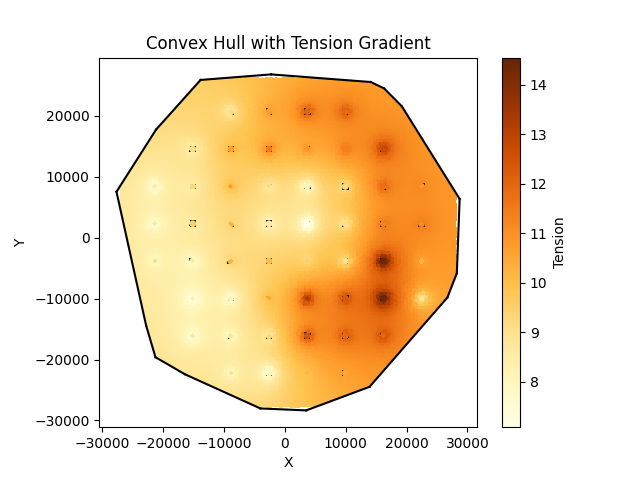
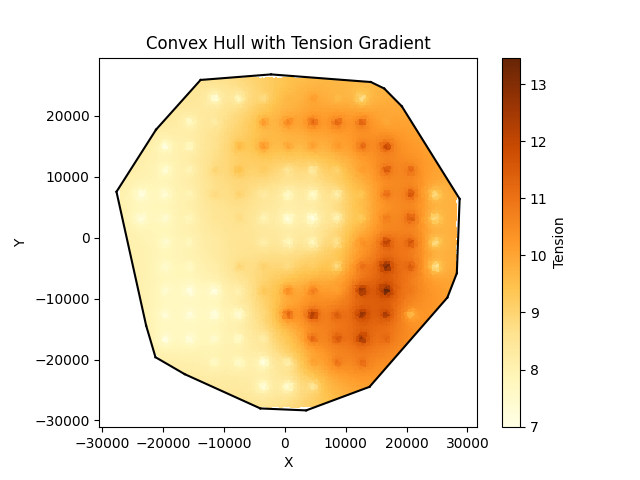
Add code for generating convex hull and tension gradient plot

diff --git a/envlake/tension.py b/envlake/tension.py
@@ -42,8 +42,8 @@ def is_circle_valid(center, radius, delaunay):
     return np.sum(inside_points) >= len(angles)/3  # 大于 1/3 的点在凸包内
 
 # 生成网格点
-grid_x1 = np.linspace(min_x, max_x, 10)
-grid_y1 = np.linspace(min_y, max_y, 10)
+grid_x1 = np.linspace(min_x, max_x, 15)
+grid_y1 = np.linspace(min_y, max_y, 15)
 grid_points = np.array(np.meshgrid(grid_x1, grid_y1)).T.reshape(-1, 2)
 
 # 过滤有效的圆心
@@ -68,7 +68,7 @@ all_centers = valid_centers + boundary_centers[:20]
 
 '''-----遍历圆并测出圆内湖深变化剧烈程度-----'''
 # 加载插值函数
-with open(r'D:\mypython\math_modeling\lake\result\res_func0.pkl', 'rb') as f:
+with open(r'D:\mypython\math_modeling\lake\result\res_func_best.pkl', 'rb') as f:
     interpolator = pickle.load(f)
 
 # 计算每个圆的 tension
@@ -76,9 +76,9 @@ circle_properties =[]
 for center in all_centers:
     # 生成圆上的点
     angles = np.random.uniform(0, 2 * np.pi, 100)
-    # radii = np.sqrt(np.random.uniform(0, 1, 10)) * radius*2
-    circle_points = np.array([center[0] + radius * np.cos(angles),
-                               center[1] + radius * np.sin(angles)]).T
+    radii = np.sqrt(np.random.uniform(0, 1, 100)) * radius
+    circle_points = np.array([center[0] + radii * np.cos(angles),
+                               center[1] + radii * np.sin(angles)]).T
     
     # 过滤在凸包内的点
     valid_points = [point for point in circle_points if delaunay.find_simplex(point) >= 0]
@@ -91,10 +91,10 @@ for center in all_centers:
 tensions = [circle['tension'] for circle in circle_properties]
 print(len(circle_properties))
 # 找出 tenssion 值最大的五个圆的索引
-top_5_indices = np.argsort(tensions)[-5:]
+top_10_indices = np.argsort(tensions)[-10:]
 
 # 打印这些圆的中心坐标和 tenssion 值
-for idx in top_5_indices:
+for idx in reversed(top_10_indices):
     center = circle_properties[idx]['center']
     tension = circle_properties[idx]['tension']
     print(f"Circle {idx}: Center = ({center[0]:.2f},{center[1]:.2f}) Tension = {tension:.2f}")
@@ -114,10 +114,6 @@ points1=np.hstack((x,y))
 # 绘制散点图，使用 tension 值作为颜色映射
 plt.scatter(x, y, c=tensions, cmap='YlOrBr', edgecolor='k')
 
-# 标出 top_5_indices 中的五个圆
-for idx in top_5_indices:
-    plt.scatter(circle_properties[idx]['center'][0], circle_properties[idx]['center'][1], 
-                color='red', edgecolor='black', s=100, label=f'Circle {idx}')
     
 grid_x1, grid_y1 = np.meshgrid(np.linspace(min_x, max_x, 100), np.linspace(min_y, max_y, 100))
 grid_points = np.vstack((grid_x1.ravel(), grid_y1.ravel())).T
@@ -154,6 +150,13 @@ plt.xlabel('X')
 plt.ylabel('Y')
 plt.title('Convex Hull with Tension Gradient')
 plt.gca().set_aspect('equal', adjustable='box')
+
+# 标出 top_10_indices 中的七个圆
+# 注释掉这段代码，即得tension.png,否则得tension with mark.png
+for idx in top_10_indices:
+    circle = plt.Circle((circle_properties[idx]['center'][0], circle_properties[idx]['center'][1]), 
+                        radius=radius, color='red', fill=False, edgecolor='black', linewidth=2)
+    plt.gca().add_patch(circle)
 
 # 显示图形
 plt.show()

diff --git a/envlake/cover.py b/envlake/cover.py
@@ -1,0 +1,92 @@
+import numpy as np
+import matplotlib.pyplot as plt
+from matplotlib.collections import PolyCollection
+from scipy.spatial import ConvexHull , Delaunay
+import pandas as pd
+import pickle
+
+
+data = pd.read_excel('D:\mypython\math_modeling\lake\data1.xlsx')
+
+'''-----构建凸包-----'''
+x = data['x'].values
+y = data['y'].values
+
+x=x.reshape(-1,1)
+y=y.reshape(-1,1)
+
+# 将 x 和 y 合并为一个二维数组
+points = np.hstack((x, y))
+
+# 计算凸包
+hull = ConvexHull(points)
+
+'''-----构造开覆盖-----'''
+# 创建 Delaunay 三角剖分对象
+delaunay = Delaunay(points)
+
+# 计算凸包的边界框
+min_x, min_y = np.min(points, axis=0)
+max_x, max_y = np.max(points, axis=0)
+
+# 圆的半径
+radius = ((max_x-min_x)+(max_y-min_y))/40  # 你可以根据需要调整半径
+
+# 判断圆心是否在凸包内
+def is_circle_valid(center, radius, delaunay):
+    # 生成圆上的点
+    angles = np.linspace(0, 2 * np.pi, 100)
+    circle_points = np.array([center[0] + radius * np.cos(angles), center[1] + radius * np.sin(angles)]).T
+    # 判断圆上的点是否在凸包内
+    inside_points = delaunay.find_simplex(circle_points) >= 0
+    return np.sum(inside_points) >= len(angles)/3  # 大于 1/3 的点在凸包内
+
+# 生成网格点
+grid_x1 = np.linspace(min_x, max_x, 15)
+grid_y1 = np.linspace(min_y, max_y, 15)
+grid_points = np.array(np.meshgrid(grid_x1, grid_y1)).T.reshape(-1, 2)
+
+# 过滤有效的圆心
+valid_centers = [center for center in grid_points 
+                 if is_circle_valid(center, radius, delaunay)]
+
+# 沿着边界取50个圆心
+boundary_centers = []
+for simplex in hull.simplices:
+    edge_points = points[simplex]
+    num_points = 50 // len(hull.simplices)  # 平均分配到每条边
+    t_values = np.linspace(0, 1, num_points, endpoint=False)[1:]  # 不包括起点
+    for t in t_values:
+        boundary_center = (1 - t) * edge_points[0] + t * edge_points[1]
+        if is_circle_valid(boundary_center, radius, delaunay):
+            boundary_centers.append(boundary_center)
+    if len(boundary_centers) >= 20:
+        break
+
+# 合并所有有效的圆心
+all_centers = valid_centers + boundary_centers[:20]
+
+# 绘制第一张图：凸包和散点
+plt.figure(figsize=(10, 5))
+plt.subplot(1, 2, 1)
+plt.plot(points[:, 0], points[:, 1], 'o', label='Data Points')
+for simplex in hull.simplices:
+    plt.plot(points[simplex, 0], points[simplex, 1], 'k-')
+plt.fill(points[hull.vertices, 0], points[hull.vertices, 1], 'c', alpha=0.3)
+plt.title('Convex Hull and Data Points')
+plt.legend()
+
+# 绘制第二张图：凸包、散点和开覆盖的圆
+plt.subplot(1, 2, 2)
+plt.plot(points[:, 0], points[:, 1], 'o', label='Data Points')
+for simplex in hull.simplices:
+    plt.plot(points[simplex, 0], points[simplex, 1], 'k-')
+plt.fill(points[hull.vertices, 0], points[hull.vertices, 1], 'c', alpha=0.3)
+for center in all_centers:
+    circle = plt.Circle(center, radius, color='r', fill=False, linestyle='--')
+    plt.gca().add_patch(circle)
+plt.title('Convex Hull, Data Points, and Open Cover Circles')
+plt.legend()
+
+plt.tight_layout()
+plt.show()
